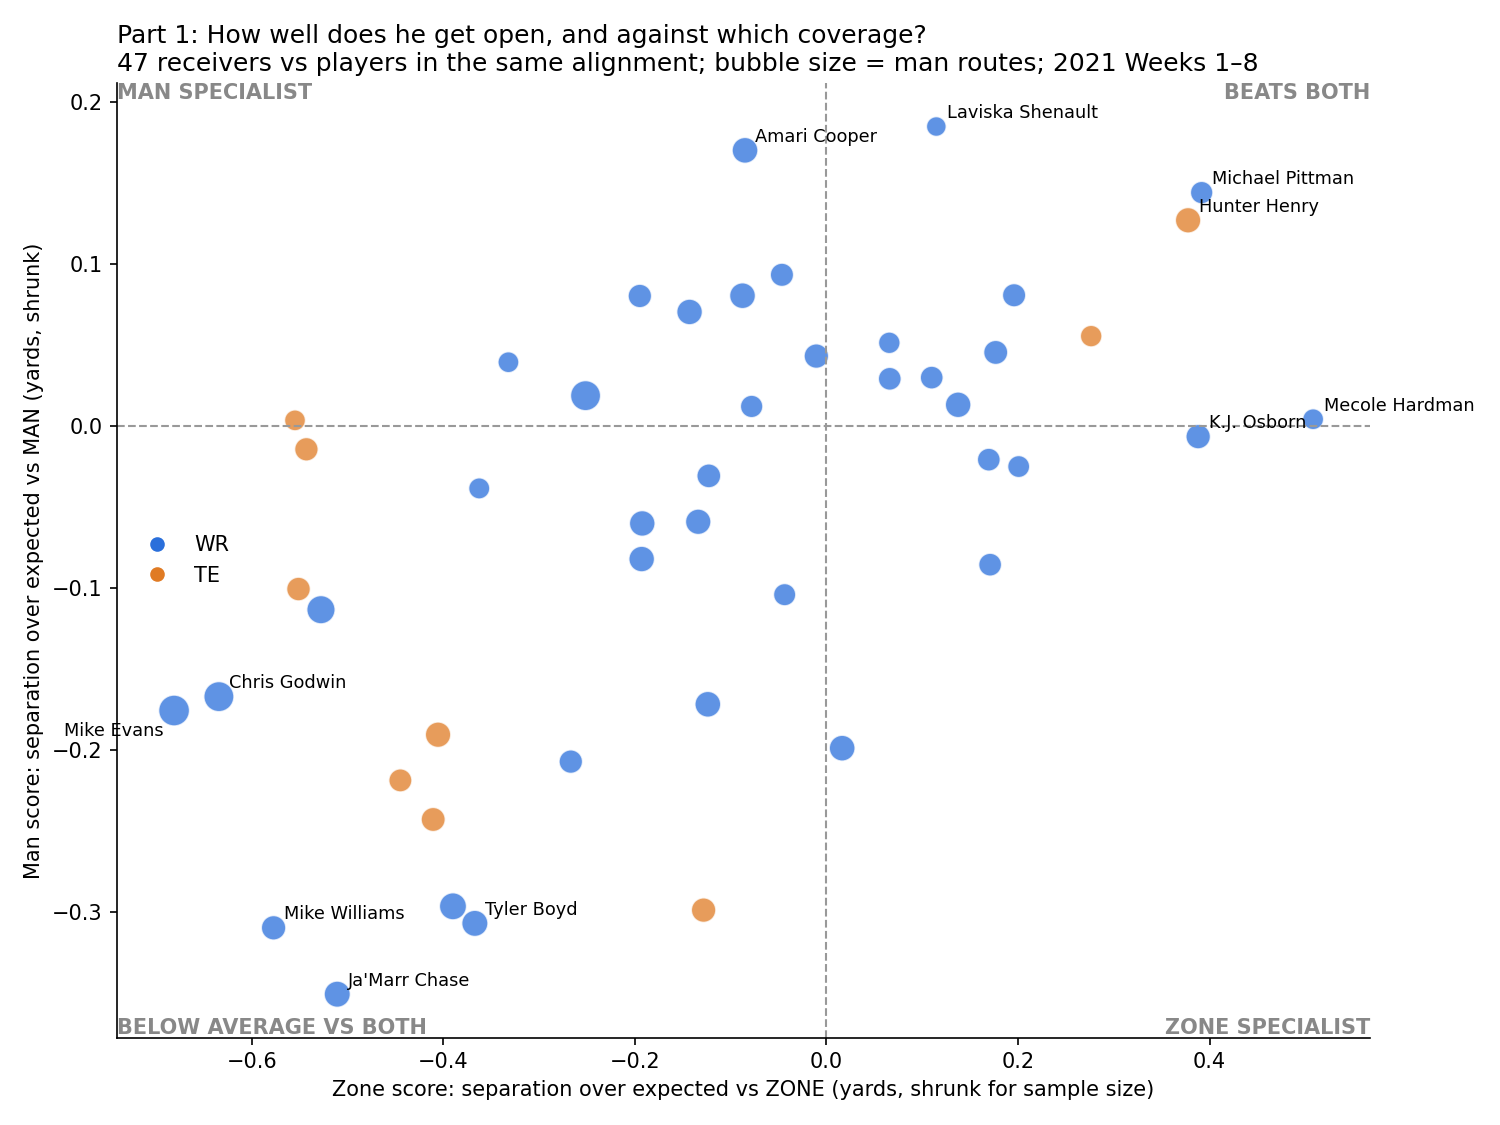
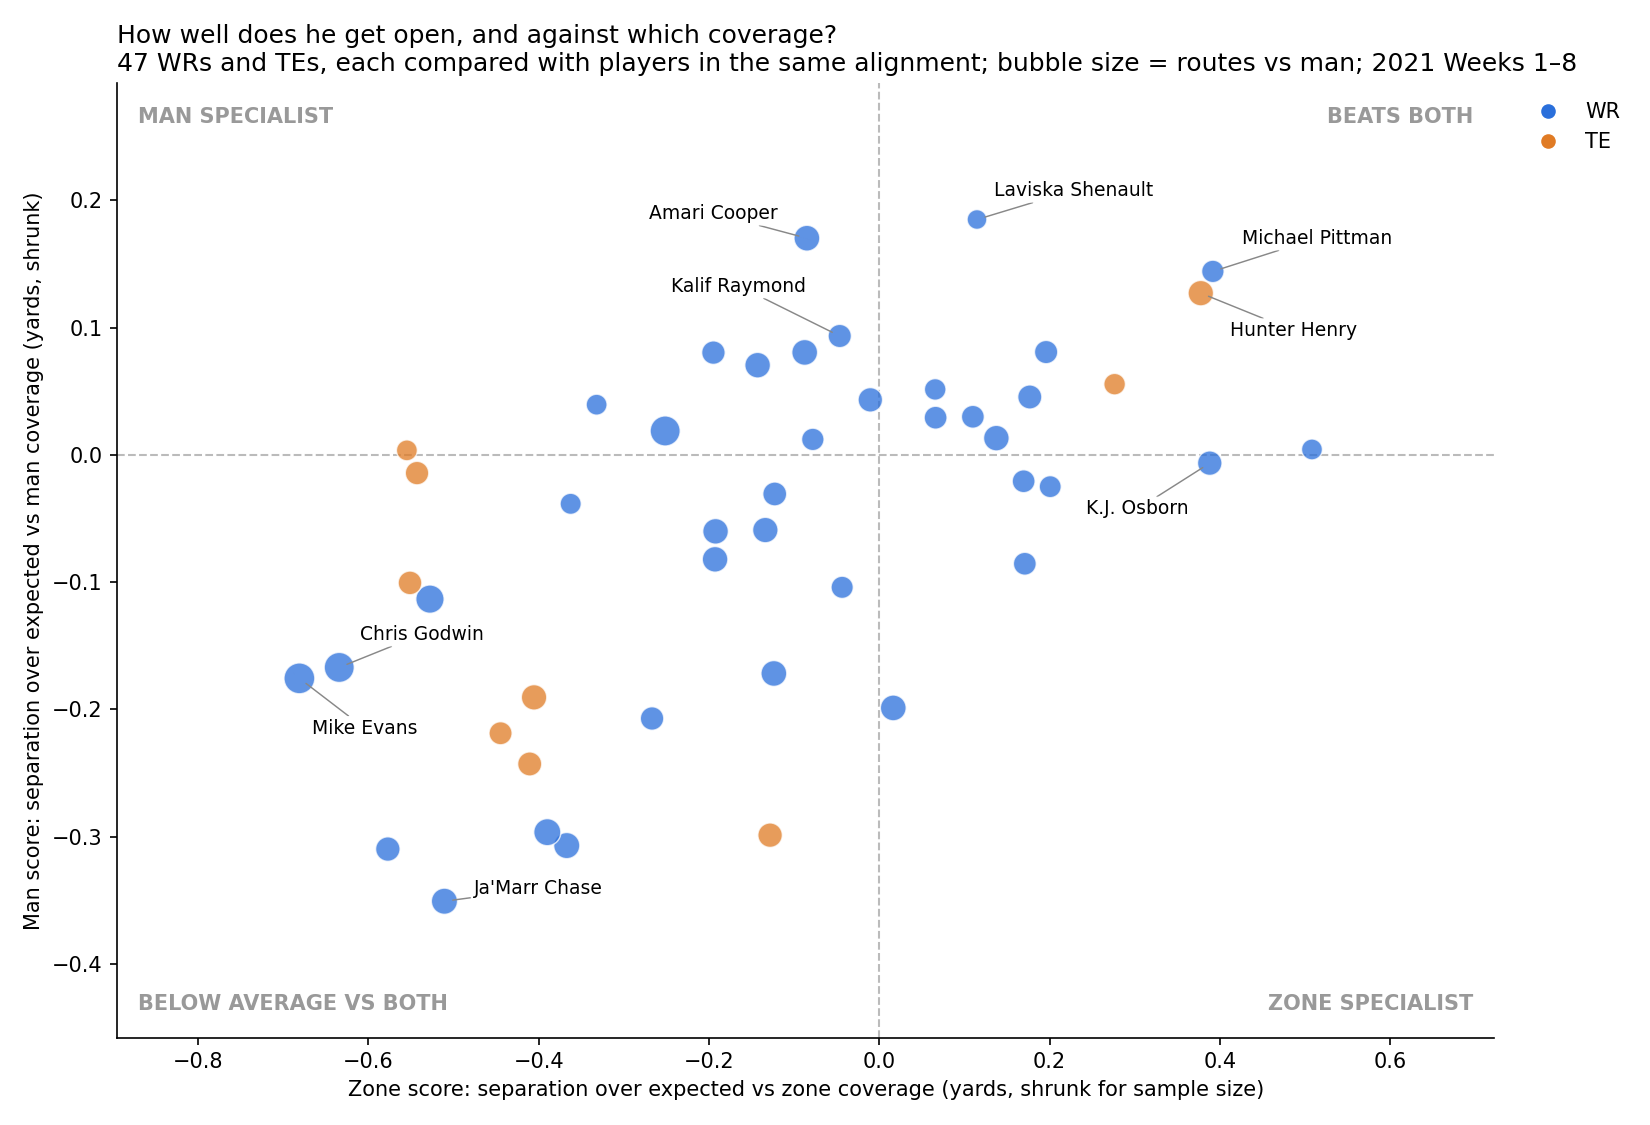
Clean up chart labels

diff --git a/src/profile_fit.py b/src/profile_fit.py
@@ -165,30 +165,40 @@ print(f"  target rate:       r = {r_tgt:.2f} [{ci_tgt[0]:.2f}, {ci_tgt[1]:.2f}]"
 
 # ------------------------------------------------------------------ Charts
 # Part 1
-fig, ax = plt.subplots(figsize=(10, 7.5))
+fig, ax = plt.subplots(figsize=(11, 7.5))
+pad_x = 0.18 * (prof["zone_score"].max() - prof["zone_score"].min())
+pad_y = 0.20 * (prof["man_score"].max() - prof["man_score"].min())
+ax.set_xlim(prof["zone_score"].min() - pad_x, prof["zone_score"].max() + pad_x)
+ax.set_ylim(prof["man_score"].min() - pad_y, prof["man_score"].max() + pad_y)
+ax.axhline(0, color="#bbb", ls="--", lw=1, zorder=0)
+ax.axvline(0, color="#bbb", ls="--", lw=1, zorder=0)
 ax.scatter(prof["zone_score"], prof["man_score"], s=prof["man_routes"] * 2.2, c=prof["pos"].map(COLORS),
-           alpha=0.75, edgecolor="white", lw=0.7)
-ax.axhline(0, color="#999", ls="--", lw=1)
-ax.axvline(0, color="#999", ls="--", lw=1)
-lab = pd.concat([prof.nlargest(4, "man_score"), prof.nlargest(4, "zone_score"), prof.nsmallest(3, "man_score"),
-                 prof.nsmallest(2, "zone_score")])
-lab = lab[~lab.index.duplicated()]
-for _, r in lab.iterrows():
-    left = r["displayName"] in ("Mike Evans",)
-    ax.annotate(r["displayName"], (r["zone_score"], r["man_score"]), xytext=(-5, -12) if left else (5, 4),
-                ha="right" if left else "left", textcoords="offset points", fontsize=8.5)
-xl, yl = ax.get_xlim(), ax.get_ylim()
-for x0, y0, t, ha, va in [(xl[1], yl[1], "BEATS BOTH", "right", "top"), (xl[0], yl[1], "MAN SPECIALIST", "left", "top"),
-                          (xl[1], yl[0], "ZONE SPECIALIST", "right", "bottom"),
-                          (xl[0], yl[0], "BELOW AVERAGE VS BOTH", "left", "bottom")]:
-    ax.text(x0, y0, t, ha=ha, va=va, fontsize=10, fontweight="bold", color="#888")
-ax.set_xlabel("Zone score: separation over expected vs ZONE (yards, shrunk for sample size)")
-ax.set_ylabel("Man score: separation over expected vs MAN (yards, shrunk)")
-ax.set_title("Part 1: How well does he get open, and against which coverage?\n"
-             f"{len(prof)} receivers vs players in the same alignment; bubble size = man routes; 2021 Weeks 1–8",
-             loc="left", fontsize=12)
+           alpha=0.75, edgecolor="white", lw=0.7, zorder=2)
+# one or two named examples per corner (the players in the README/METHODS table), each with a hand-set offset
+LABELS = {"Michael Pittman": (14, 16), "Hunter Henry": (14, -18), "Laviska Shenault": (8, 14),
+          "Amari Cooper": (-14, 12), "Kalif Raymond": (-16, 24), "K.J. Osborn": (-10, -22),
+          "Ja'Marr Chase": (14, 6), "Mike Evans": (6, -24), "Chris Godwin": (10, 16)}
+by_name = prof.set_index("displayName")
+for name, (dx, dy) in LABELS.items():
+    if name not in by_name.index:
+        continue
+    r = by_name.loc[name]
+    ax.annotate(name, (r["zone_score"], r["man_score"]), xytext=(dx, dy), textcoords="offset points",
+                ha="left" if dx > 0 else "right", va="center", fontsize=9, zorder=3,
+                bbox={"boxstyle": "round,pad=0.15", "fc": "white", "ec": "none", "alpha": 0.9},
+                arrowprops={"arrowstyle": "-", "color": "#888", "lw": 0.7, "shrinkA": 0, "shrinkB": 4})
+for x0, y0, t, ha, va in [(0.985, 0.975, "BEATS BOTH", "right", "top"), (0.015, 0.975, "MAN SPECIALIST", "left", "top"),
+                          (0.985, 0.025, "ZONE SPECIALIST", "right", "bottom"),
+                          (0.015, 0.025, "BELOW AVERAGE VS BOTH", "left", "bottom")]:
+    ax.text(x0, y0, t, transform=ax.transAxes, ha=ha, va=va, fontsize=10, fontweight="bold", color="#999")
+ax.set_xlabel("Zone score: separation over expected vs zone coverage (yards, shrunk for sample size)")
+ax.set_ylabel("Man score: separation over expected vs man coverage (yards, shrunk)")
+ax.set_title("How well does he get open, and against which coverage?\n"
+             f"{len(prof)} WRs and TEs, each compared with players in the same alignment; "
+             "bubble size = routes vs man; 2021 Weeks 1–8", loc="left", fontsize=12)
 handles = [plt.Line2D([], [], marker="o", ls="", color=c, label=k) for k, c in COLORS.items()]
-ax.legend(handles=[h for h in handles if h.get_label() in set(prof["pos"])], frameon=False, loc="center left")
+ax.legend(handles=[h for h in handles if h.get_label() in set(prof["pos"])], frameon=False,
+          loc="upper left", bbox_to_anchor=(1.01, 1.0))
 ax.spines[["top", "right"]].set_visible(False)
 fig.tight_layout()
 fig.savefig(f"{OUT}/profile_man_zone.png", dpi=150)
@@ -207,7 +217,7 @@ ax.set_yticks(range(len(sel)), [f"{r['displayName']} ({r['pos']}, {r['own_team']
               fontsize=9)
 ax.set_xlabel("Open before the throw: share of that team's dropbacks on which he'd already be open")
 ax.xaxis.set_major_formatter(lambda v, _: f"{v:.0f}%")
-ax.set_title("Part 2: If a team adds him, how often is he open before that team's QB throws?\n"
+ax.set_title("If a team adds him, how often is he open before that team's QB throws?\n"
              "18 receivers whose fit depends most on the QB. Red = worst fit, green = best fit,\n"
              "black tick = his current team", loc="left", fontsize=12)
 ax.spines[["top", "right"]].set_visible(False)
@@ -216,7 +226,16 @@ fig.savefig(f"{OUT}/qb_fit.png", dpi=150)
 
 # Validation
 fig, ax = plt.subplots(figsize=(7.5, 6.5))
-ax.scatter(val["pred_change"], val["actual_change"], c=val["pos"].map(COLORS), s=50, edgecolor="white")
+ax.scatter(val["pred_change"], val["actual_change"], c=val["pos"].map(COLORS), s=50, edgecolor="white", zorder=2)
+VAL_LABELS = {"Jamison Crowder": (-12, 14), "Mohamed Sanu": (12, 0), "Keelan Cole": (8, -42),
+              "Albert Wilson": (12, 0)}
+for _, r in val[val["player"].isin(VAL_LABELS)].iterrows():
+    dx, dy = VAL_LABELS[r["player"]]
+    ax.annotate(f"{r['player']} ({r['team']}: {r['qb_A'].split()[-1]} → {r['qb_B'].split()[-1]})",
+                (r["pred_change"], r["actual_change"]), xytext=(dx, dy), textcoords="offset points",
+                ha="left" if dx > 0 else "right", va="center", fontsize=8.5, zorder=3,
+                bbox={"boxstyle": "round,pad=0.15", "fc": "white", "ec": "none", "alpha": 0.9},
+                arrowprops={"arrowstyle": "-", "color": "#888", "lw": 0.7, "shrinkA": 0, "shrinkB": 4})
 m_, b_ = np.polyfit(x, y, 1)
 xs_ = np.linspace(x.min(), x.max(), 10)
 ax.plot(xs_, m_ * xs_ + b_, color="#444", ls="--", lw=1.2)
